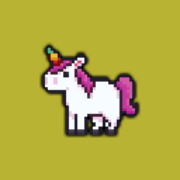
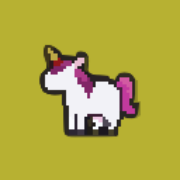
test_3

diff --git a/index.html b/index.html
@@ -120,7 +120,7 @@ body {
 
 		<script src="index.js"></script>
 		<script>
-const GODOT_CONFIG = {"args":[],"canvasResizePolicy":2,"emscriptenPoolSize":8,"ensureCrossOriginIsolationHeaders":true,"executable":"index","experimentalVK":true,"fileSizes":{"index.pck":10098140,"index.wasm":39509339},"focusCanvas":true,"gdextensionLibs":[],"godotPoolSize":4,"serviceWorker":"index.service.worker.js"};
+const GODOT_CONFIG = {"args":[],"canvasResizePolicy":2,"emscriptenPoolSize":8,"ensureCrossOriginIsolationHeaders":true,"executable":"index","experimentalVK":true,"fileSizes":{"index.pck":10350860,"index.wasm":37695054},"focusCanvas":true,"gdextensionLibs":[],"godotPoolSize":4,"serviceWorker":"index.service.worker.js"};
 const GODOT_THREADS_ENABLED = false;
 const engine = new Engine(GODOT_CONFIG);
 

diff --git a/index.service.worker.js b/index.service.worker.js
@@ -4,7 +4,7 @@
 // Incrementing CACHE_VERSION will kick off the install event and force
 // previously cached resources to be updated from the network.
 /** @type {string} */
-const CACHE_VERSION = '1782718194|1526405849';
+const CACHE_VERSION = '1783715810|155741890';
 /** @type {string} */
 const CACHE_PREFIX = 'VakKaland-sw-cache-';
 const CACHE_NAME = CACHE_PREFIX + CACHE_VERSION;